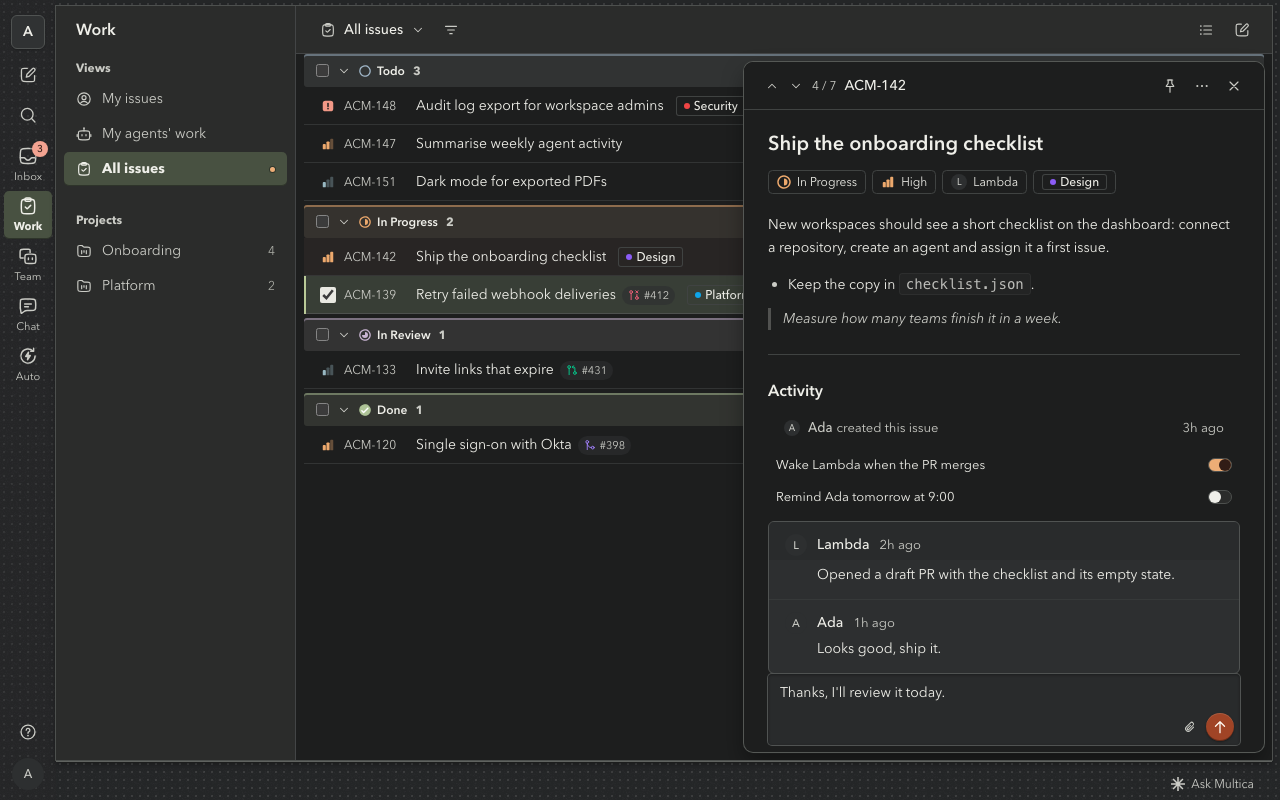
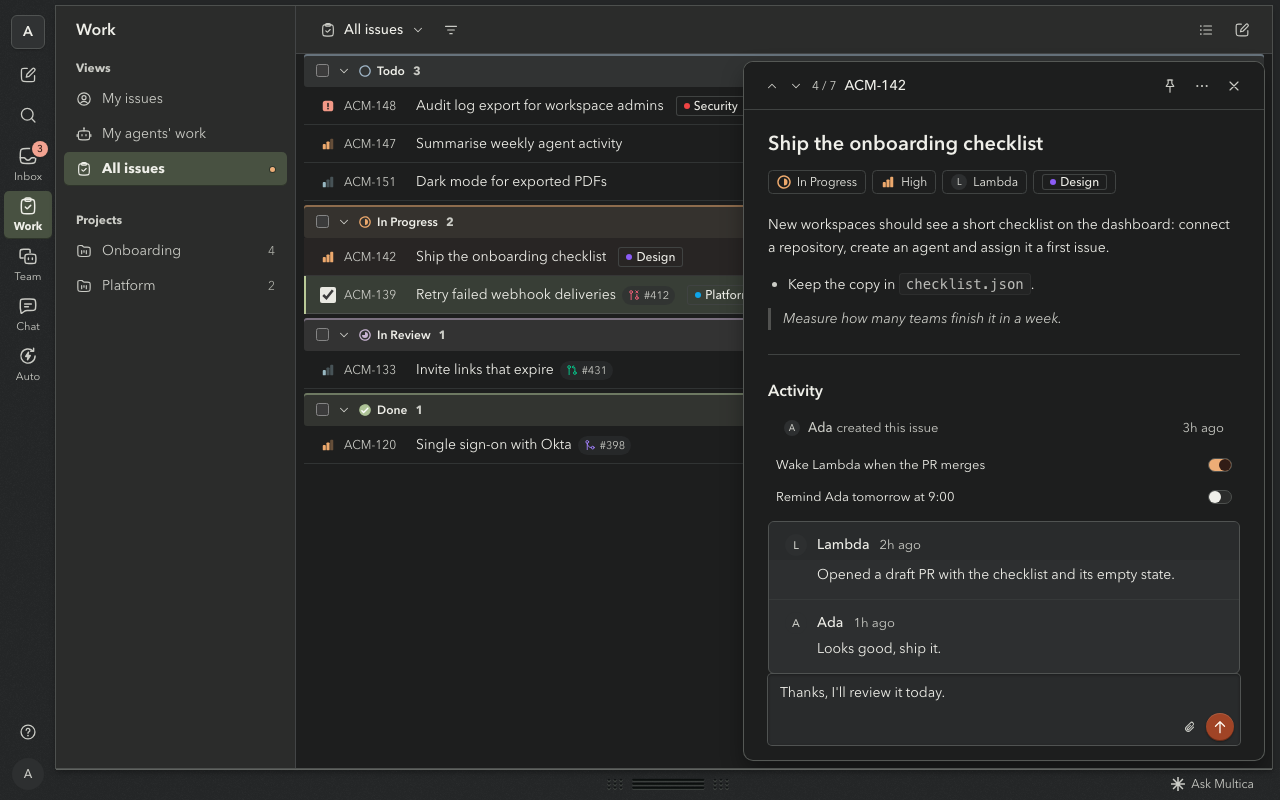
style: restore the Braun bottom grille and smooth navigation rail

Changed region(s): [[0.0312, 0.9375, 1.0, 1.0]]

diff --git a/theme.css b/theme.css
@@ -121,10 +121,10 @@
   --relay-active-key: #e2e2cf;
   --relay-detail: #f6f5f0;
   --relay-status-lamp: #657747;
+  --relay-grille-image: url(images/grille-light.png);
   --relay-lane-tint: 4%;
   --relay-lane-mark: 58%;
   --relay-key-face: #3b3a37;
-  --relay-perforation-ink: rgb(39 39 33 / 0.32);
 }
 
 .theme-dark {
@@ -193,10 +193,10 @@
   --relay-active-key: #485141;
   --relay-detail: #242524;
   --relay-status-lamp: #b9c997;
+  --relay-grille-image: url(images/grille-dark.png);
   --relay-lane-tint: 5%;
   --relay-lane-mark: 51%;
   --relay-key-face: #41413c;
-  --relay-perforation-ink: rgb(239 239 233 / 0.16);
 }
 
 :root.theme-light[data-theme-option-signal="olive"] {
@@ -253,7 +253,8 @@
 }
 
 :is([data-mc="app-rail"], [data-mc="window-toolbar"], [data-mc="tab-bar"], [data-mc="bottom-bar"]) {
-  background-image: url(images/molded-grain.png);
+  --relay-grain-image: url(images/molded-grain.png);
+  background-image: var(--relay-grain-image);
   background-repeat: repeat;
 }
 
@@ -447,21 +448,33 @@
   box-shadow: inset 0 1px var(--relay-glint), 0 0 0 1px var(--relay-dark-edge);
 }
 
-/* One perforated surface runs under the frame and its controls. */
-:root[data-theme-option-chassis-detail] {
-  --backdrop: radial-gradient(circle, var(--relay-perforation-ink) 0.75px, transparent 1.35px) 0 0 / 8px 8px;
-  --backdrop-color: var(--app-shell);
-  --frame-glass-opacity: 32%;
-  --frame-glass-blur: 0px;
-  --glass-opacity: 100%;
-  --glass-blur: 0px;
-}
-
 @media (min-width: 768px) {
   :root[data-theme-option-chassis-detail] [data-mc="page"] {
     margin-block-start: 6px;
-    margin-block-end: 8px;
     margin-inline-end: 8px;
     --page-shadow: 0 2px 0 var(--relay-edge), 0 4px 6px var(--relay-dark-edge);
+  }
+
+  :root[data-theme-option-chassis-detail] [data-mc="bottom-bar"] {
+    background-image: var(--relay-grille-image), var(--relay-grain-image);
+    background-size: 128px 12px, auto;
+    background-position: center, left top;
+    background-repeat: no-repeat, repeat;
+  }
+
+  /* Some workspace shells have no status bar. Leave room under the card and
+     paint the same bundled grille on its column, clear of app controls. */
+  :root[data-theme-option-chassis-detail]
+  [data-slot="sidebar-wrapper"]:has(> [data-mc="app-rail"])
+  > div:has(> :is([data-slot="app-shell-card"], [data-slot="main-canvas"])):not(:has(> [data-mc="bottom-bar"])) {
+    --relay-grille-strip: 28px;
+    background-image: var(--relay-grille-image);
+    background-size: 128px 12px;
+    background-position: center bottom 8px;
+    background-repeat: no-repeat;
+  }
+
+  :root[data-theme-option-chassis-detail] [data-mc="page"]:is([data-slot="app-shell-card"], [data-slot="main-canvas"]) {
+    margin-block-end: var(--relay-grille-strip, 0px);
   }
 }

diff --git a/README.md b/README.md
@@ -10,11 +10,11 @@ An independent, Braun-inspired console theme that gives Multica boards the feel 
 
 ## Design
 
-The layout follows the front panel of a vintage radio. The outer frame reads as a chassis, the navigation as a control panel, and the main canvas as the work surface. Fine perforations cover the exposed frame, from the navigation rail to the bottom edge. The flat panels and aligned controls leave room for the board and its tasks.
+The layout follows the front panel of a vintage radio. The outer frame reads as a chassis, the navigation as a control panel, and the main canvas as the work surface. A three-slot grille sits at the centre of the bottom edge. The flat panels and aligned controls leave room for the board and its tasks.
 
 Light mode pairs linen grey with a warm porcelain canvas. Dark mode carries the same hierarchy into graphite and charcoal. Small graphite keycaps and softly raised buttons borrow their feel from the Braun ET 66 calculator.
 
-![Close-up of the perforated lower-left corner in light and dark mode](screenshots/chassis.png)
+![Close-up of the bottom grille in light and dark mode](screenshots/chassis.png)
 
 ## Palette
 
@@ -36,7 +36,7 @@ Switch between burnt orange and olive green under **Settings → Appearance → 
 
 In Multica, open **Settings → Appearance → Make your own theme → Import theme** and select the downloaded ZIP. [Download theme.zip](https://github.com/gooyoung/multica-theme-braun/releases/latest/download/theme.zip)
 
-Multica stores themes and options per browser profile. Import the ZIP in each profile where you use Braun. The theme ID is `braun`, and the ZIP includes the CSS and all of its images. Case texture is built in. **Chassis details** are on by default and show the perforated frame in the wide workspace layout. **Keycap bevels** can be adjusted independently.
+Multica stores themes and options per browser profile. Import the ZIP in each profile where you use Braun. The theme ID is `braun`, and the ZIP includes the CSS and all of its images. Case texture is built in. **Chassis details** are on by default and show the bottom grille in the wide workspace layout. **Keycap bevels** can be adjusted independently.
 
 ### Previews in the theme manager
 

diff --git a/README.zh-CN.md b/README.zh-CN.md
@@ -10,11 +10,11 @@
 
 ## 设计理念
 
-用老式收音机的面板组织界面。外框是机壳，导航是控制面板，中央画布留给任务。细孔从主导航铺到整个底缘，连成一块完整的机壳。平整的面板和对齐的控件，让看板内容容易扫读。
+用老式收音机的面板组织界面。外框是机壳，导航是控制面板，中央画布留给任务。底缘有三道横槽，呼应收音机的扬声器格栅。平整的面板和对齐的控件，让看板内容容易扫读。
 
 浅色用亚麻灰衬暖瓷白，深色用石墨灰衬炭黑，两套模式保留相同的明暗层次。石墨色快捷键帽和微微隆起的按键，借鉴了博朗 ET 66 计算器的按键质感。
 
-![浅色和深色模式下左下角的机壳细孔特写](screenshots/chassis.png)
+![浅色和深色模式下的底部横槽特写](screenshots/chassis.png)
 
 ## 配色
 
@@ -36,7 +36,7 @@
 
 在 Multica 中打开 **设置 → 外观 → 制作自己的主题 → 导入主题**，选择下载的 ZIP。[下载主题包](https://github.com/gooyoung/multica-theme-braun/releases/latest/download/theme.zip)
 
-主题和设置按浏览器配置分别保存，换浏览器时导入一次即可。主题 ID 为 `braun`，包内包含主题 CSS 和全部所需图片。外壳纹理始终开启。**机壳细节** 默认开启，在宽屏工作区显示机壳细孔。**键帽倒角** 可以单独调整。
+主题和设置按浏览器配置分别保存，换浏览器时导入一次即可。主题 ID 为 `braun`，包内包含主题 CSS 和全部所需图片。外壳纹理始终开启。**机壳细节** 默认开启，在宽屏工作区显示底部横槽。**键帽倒角** 可以单独调整。
 
 ### 主题管理中的预览
 
